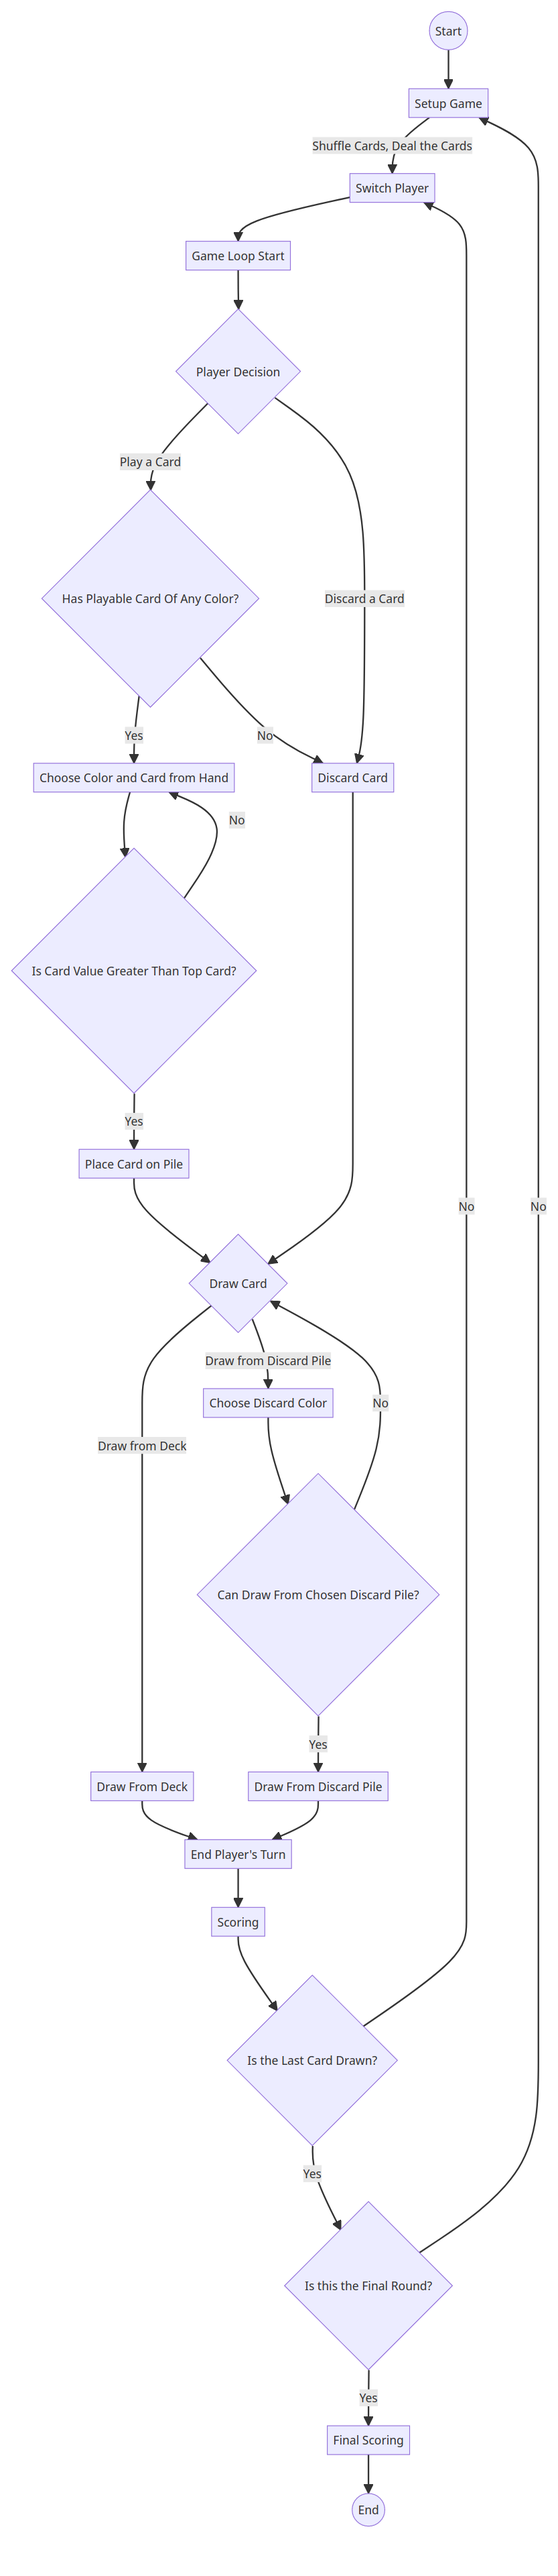
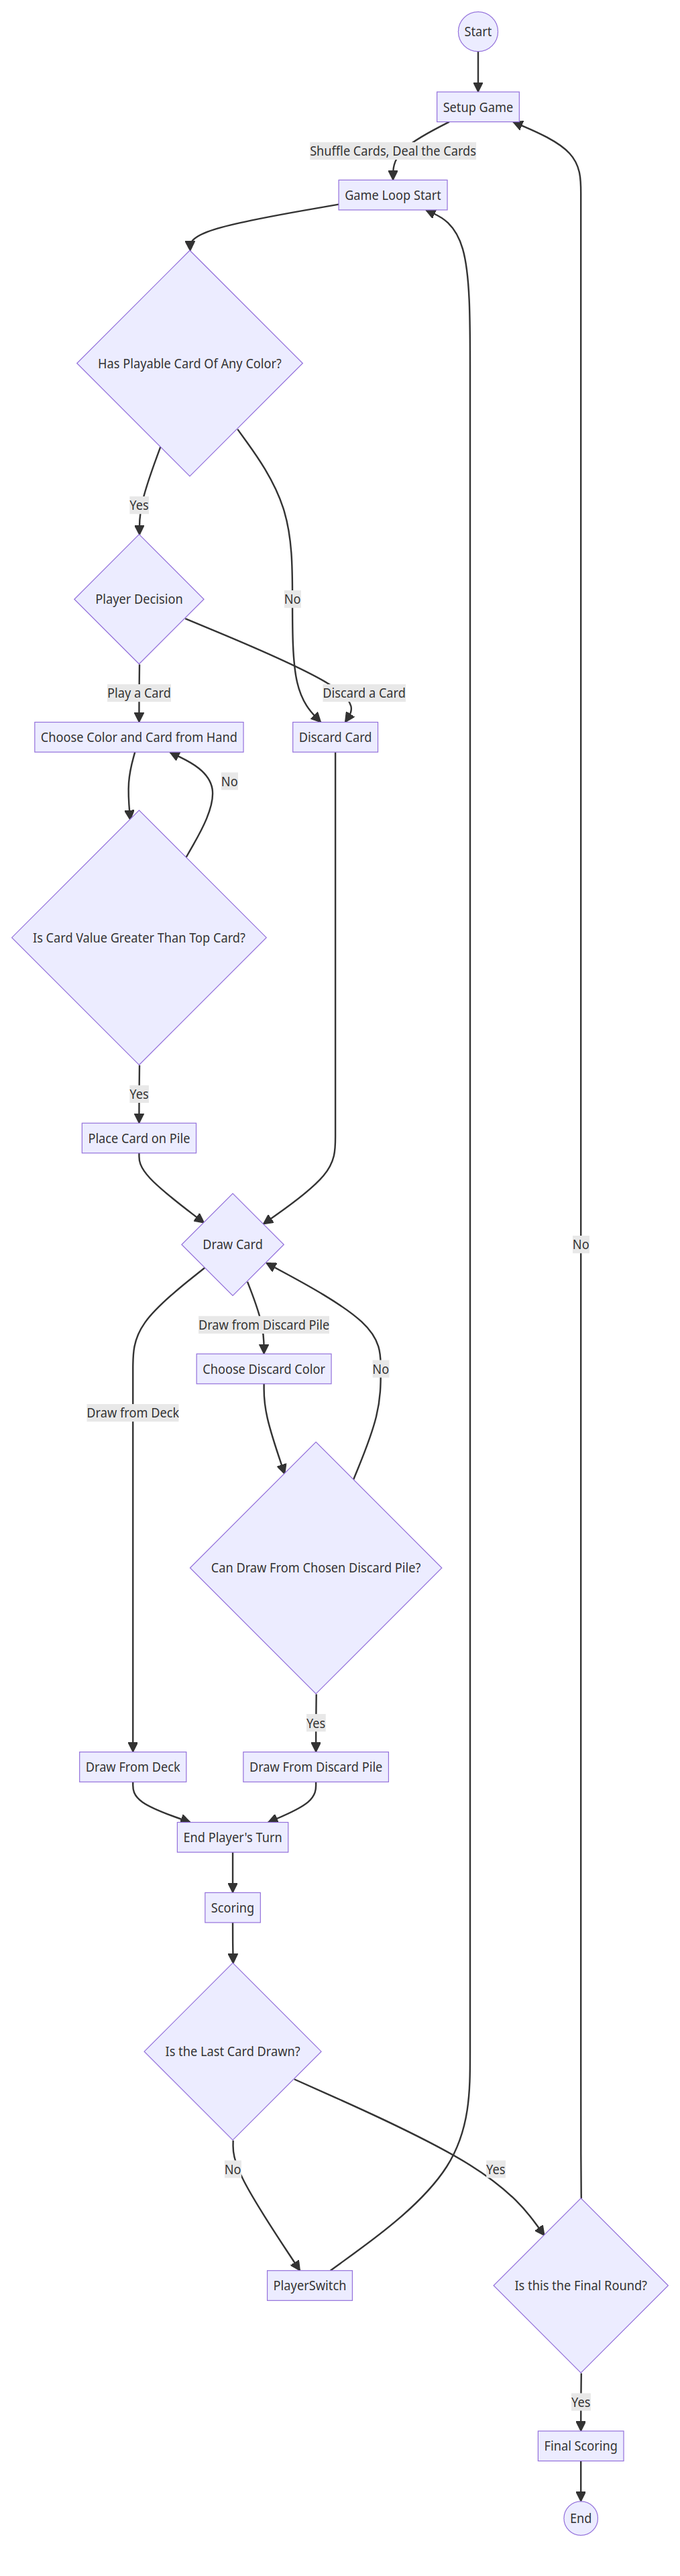
fix Playable Card Of Any Color? and Player switch

diff --git a/docs/activity_chart/activity_chart.md b/docs/activity_chart/activity_chart.md
@@ -2,15 +2,13 @@
 graph TB
     Start((Start)) --> Setup[Setup Game]
     
-    Setup -->|Shuffle Cards, Deal the Cards| PlayerSwitch[Switch Player]
+    Setup -->|Shuffle Cards, Deal the Cards| GameLoop[Game Loop Start]
     
-    PlayerSwitch --> GameLoop[Game Loop Start]
-    
-    GameLoop --> PlayerDecision{Player Decision}
-    
-    PlayerDecision -->|Play a Card| HasPlayableCard{Has Playable Card Of Any Color?}
+    GameLoop --> HasPlayableCard{Has Playable Card Of Any Color?}
     HasPlayableCard -- No --> DiscardCard[Discard Card]
-    HasPlayableCard -- Yes --> ChooseColorAndCard[Choose Color and Card from Hand]
+    HasPlayableCard -- Yes --> PlayerDecision{Player Decision}
+    
+    PlayerDecision -->|Play a Card| ChooseColorAndCard[Choose Color and Card from Hand]
     ChooseColorAndCard --> IsCardGreater{Is Card Value Greater Than Top Card?}
     IsCardGreater -- No --> ChooseColorAndCard
     IsCardGreater -- Yes --> PlaceCard[Place Card on Pile]
@@ -31,6 +29,7 @@ graph TB
     EndTurn --> Scoring[Scoring]
     Scoring --> IsLastCard{Is the Last Card Drawn?}
     IsLastCard -- No --> PlayerSwitch
+    PlayerSwitch --> GameLoop[Game Loop Start]
     IsLastCard -- Yes --> IsFinalRound{Is this the Final Round?}
     IsFinalRound -- No --> Setup
     IsFinalRound -- Yes --> FinalScoring[Final Scoring]
